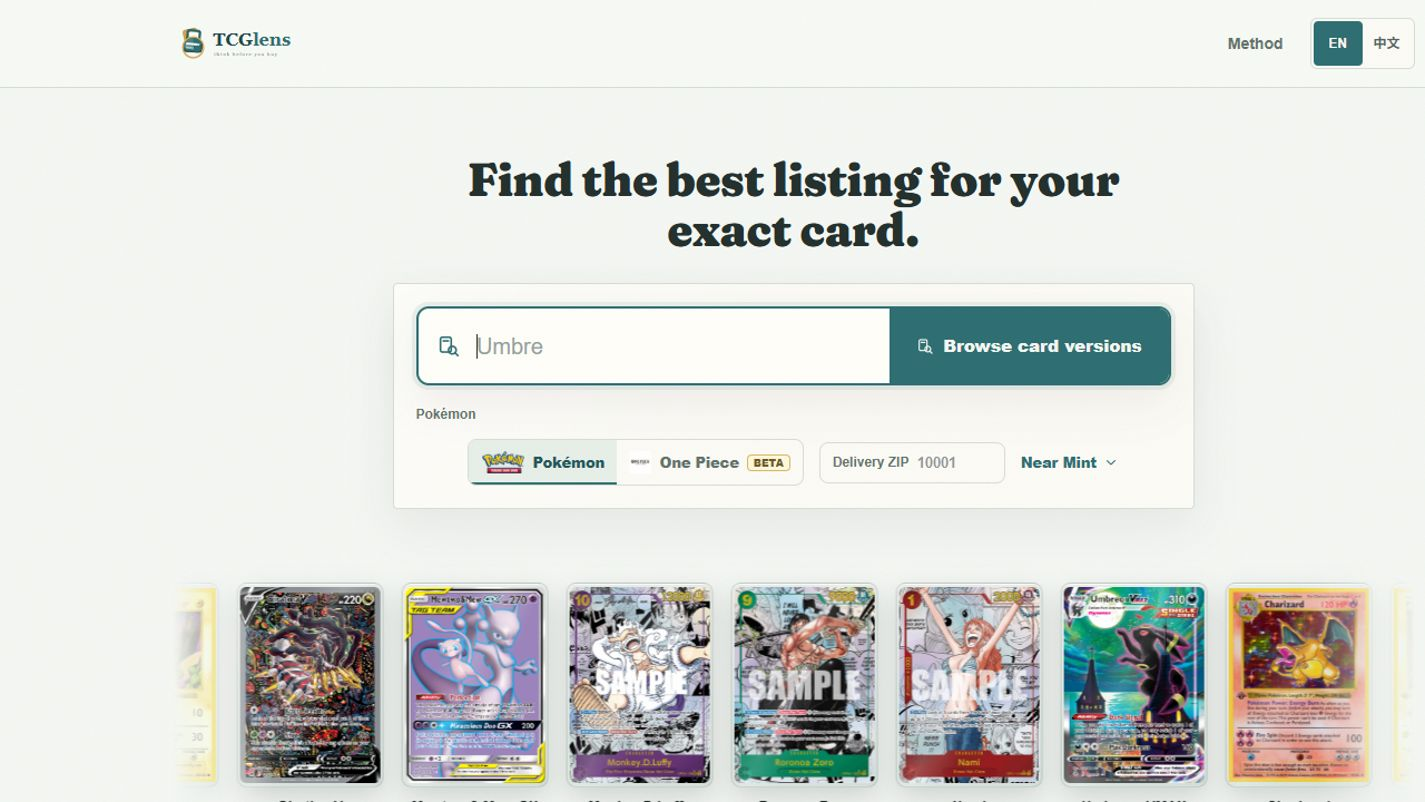
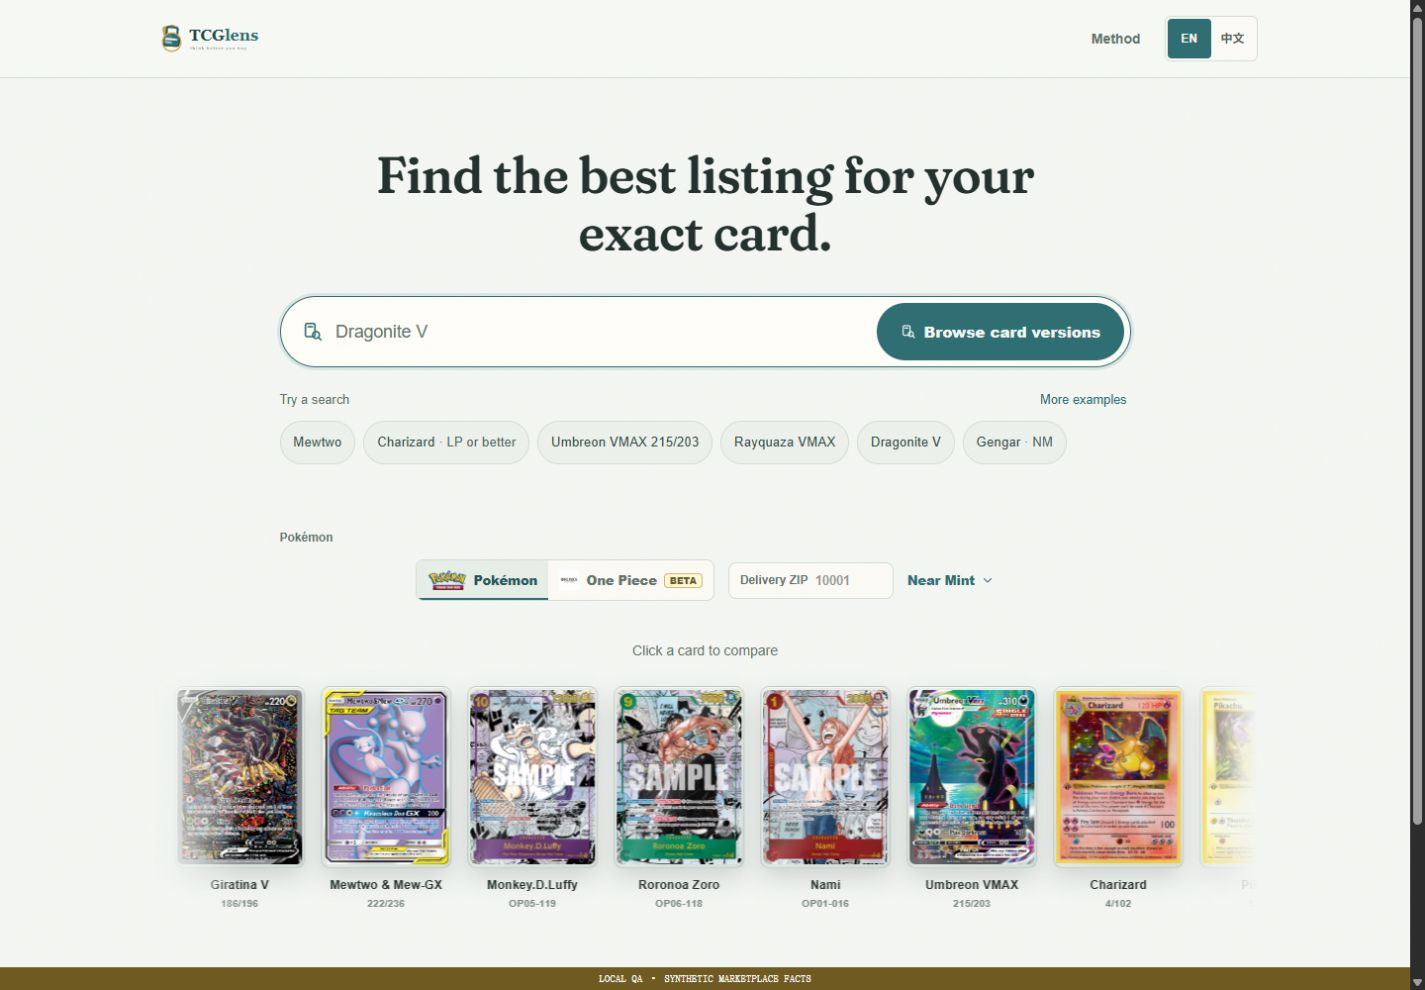
docs: verify Chinese copy on latest search entry

diff --git a/PROGRESS.md b/PROGRESS.md
@@ -3,8 +3,8 @@ document: tcglens-progress
 schema_version: 1
 updated_at: 2026-09-27
 canonical_branch: origin/main
-last_verified_product_commit: e92f566
-working_branch: main (search-entry refresh; Whatnot allowance exhausted; Mercari blocked)
+last_verified_product_commit: 12f7b6a
+working_branch: main (Mainland Chinese copy + search-entry refresh; Whatnot allowance exhausted; Mercari blocked)
 max_lines: 300
 ---
 
@@ -249,7 +249,7 @@ Use Graphify before broad cross-file exploration. Verify ambiguous graph edges i
 ## VERIFICATION
 
 - 2026-09-27 search entry: lint/typecheck/metadata audit/build passed; 114 test files and 1,571 tests passed, 5 skipped. TDD covered example selection, stale-field reset, real condition presets, game/locale changes and the six-card standard flow. Built-in browser verified EN/中文 1440px desktop, 390px mobile, original rail pointer click, and six sequential searches across both games with Edit/New and Nami SP confirmation. Synthetic providers only; inspected console logs empty. Graphify CLI remains unavailable.
-- September 27 Chinese copy gate: lint, typecheck, metadata audit, production build and 113 test files / 1,562 tests passed, 5 skipped. Built-in browser checked EN/中文 desktop, 390px Chinese mobile, results, One Piece confirmation and method copy with labeled local fixtures. Receipt interactions passed component tests. [Evidence](docs/chinese-copy-2026-09-27.md). Ranking/provider behavior is unchanged; no live or paid marketplace checks were needed.
+- September 27 Chinese copy gate: lint, typecheck, metadata audit, production build and 114 test files / 1,571 tests passed, 5 skipped after rebasing onto the released search entry. Built-in browser checked EN/中文 desktop, 390px Chinese mobile, results, One Piece confirmation and method copy with labeled local fixtures. Receipt interactions passed component tests. [Evidence](docs/chinese-copy-2026-09-27.md). Ranking/provider behavior is unchanged; no live or paid marketplace checks were needed.
 - Final September 26 product deployment `15c06d6` READY (`dpl_3veDyoN3xNSLxjJARfMc1uveXhJu`, 54.1s), lenstcg.com aliased; full gate still 1,562 pass / 5 skipped, scoped warning/error/fatal scan empty. Low reasoning did not resolve Q&A's deadline: the second live answer used accurate, labeled fallback after 12,201ms. Model-backed live answers remain unverified; Chinese fallback detail reasons may remain English. Final EN/中文 desktop and 390px mobile production screenshots captured. No new paid source start, quota reset or activation.
 - September 26 trust-fix gate: lint/typecheck/metadata audit/build pass; 113 test files / 1,562 tests passed, 5 skipped. EN/中文 desktop and 390px mobile Q&A passed; five sequential fixture searches used Edit, New Search and One Piece version confirmation. `f016616` READY on lenstcg.com (`dpl_6HrcUg5gtG1k1STQVraxutKtMgDS`, 82s); warning/error/fatal scan empty. Live Charizard: 50 rows / 1 eligible / 38 price-floor issues, 3.69s; 47 IDs overlap, so the new winner is not a causal recall gain. Unknown $499/$600 rows now have explicit LP claims and stay excluded. Q&A accurately used labeled fallback after 12,085ms; low reasoning follow-up retains the deadline and passed the full gate. Evidence: `docs/comparison-trust-fixes-2026-09-26.md`.
 - September 23 result-layout gate: lint/typecheck/build + metadata audit passed; 111 files / 1,543 tests passed, 5 skipped. Regression proves the buy appears before closed supplementary prices; disclosure/filter tests passed. Built-in browser verified EN/中文 desktop and 390px mobile, keyboard Enter, hidden links while collapsed, and no horizontal overflow. Synthetic QA only, no new paid source calls. The initial parallel run hit one 5s UI timeout and a malformed generated `.next/dev/types/routes.d.ts`; stopping dev, restoring that generated file from the successful build output, and rerunning the suite with four workers passed without weakening tests. Graphify CLI still unavailable.

diff --git a/docs/chinese-copy-2026-09-27.md b/docs/chinese-copy-2026-09-27.md
@@ -28,7 +28,7 @@ Unknown seller history stays unverified; incomplete charges never become zero; m
 - Receipt copy and link behavior were verified in the existing receipt component tests. A durable shared receipt was not published during this copy review.
 - React review: no changes to hooks, state, component boundaries or data fetching; accessible names and text-based interactions pass the existing UI suite.
 - No search behavior changed, so the five-search manual smoke was not repeated. The hermetic sequential flow remains part of the full suite. No provider credential checks, paid runs, plugin validation or Graphify regeneration were needed for string-only edits.
-- Work was isolated from the uncommitted `codex/search-examples` checkout. That work was not included in this release.
+- Work began in an isolated checkout, then rebased onto the completed search-entry release (`4062fc4`). New example behavior and the original card rail are preserved; the new Chinese example labels follow the same vocabulary. Landing screenshots were refreshed after integration.
 
 ## Screenshots
 
